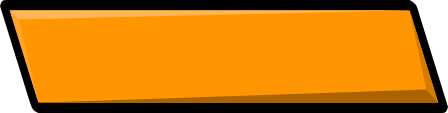
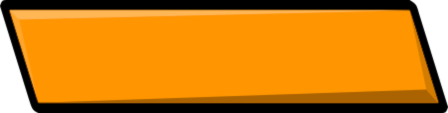
Fix aliasing, fix checkbox bug

diff --git a/src/guiengine/layout_manager.cpp b/src/guiengine/layout_manager.cpp
@@ -291,12 +291,12 @@ void LayoutManager::readCoords(Widget* self)
     }
 
     // Set vertical inner padding
-    self->m_absolute_h += self->m_absolute_h*SkinConfig::getVerticalInnerPadding(self->getType());
-    self->m_relative_h += self->m_relative_h*SkinConfig::getVerticalInnerPadding(self->getType());
+    self->m_absolute_h += self->m_absolute_h * SkinConfig::getVerticalInnerPadding(self->getType());
+    self->m_relative_h += self->m_relative_h * SkinConfig::getVerticalInnerPadding(self->getType());
 
     // Set horizontal inner padding
-    self->m_absolute_w += self->m_absolute_w*SkinConfig::getHorizontalInnerPadding(self->getType());
-    self->m_relative_w += self->m_relative_w*SkinConfig::getHorizontalInnerPadding(self->getType());
+    self->m_absolute_w += self->m_absolute_w * SkinConfig::getHorizontalInnerPadding(self->getType());
+    self->m_relative_w += self->m_relative_w * SkinConfig::getHorizontalInnerPadding(self->getType());
 
 }
 

diff --git a/src/guiengine/skin.cpp b/src/guiengine/skin.cpp
@@ -224,7 +224,7 @@ namespace SkinConfig
         {
             case WTYPE_SPINNER:     type = "spinner"; break;
             case WTYPE_BUTTON:      type = "button"; break;
-            case WTYPE_CHECKBOX:    type = "checkbox"; break;
+            case WTYPE_CHECKBOX:    type = "checkbox"; state = "neutral+unchecked"; break;
             case WTYPE_BUBBLE:      type = "textbubble"; break;
             case WTYPE_LIST:        type = "list"; break;
             case WTYPE_PROGRESS:    type = "progress"; break;
